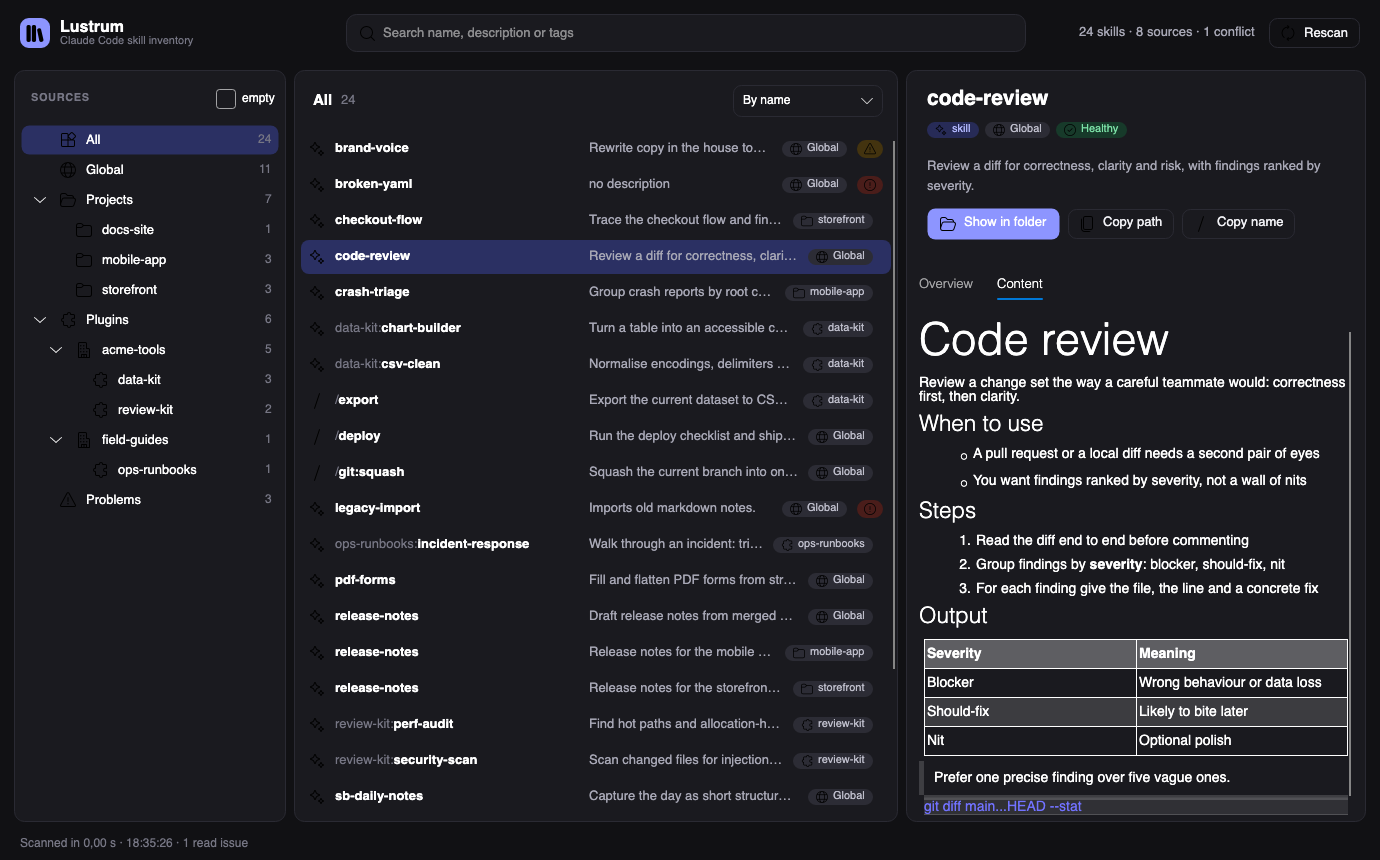
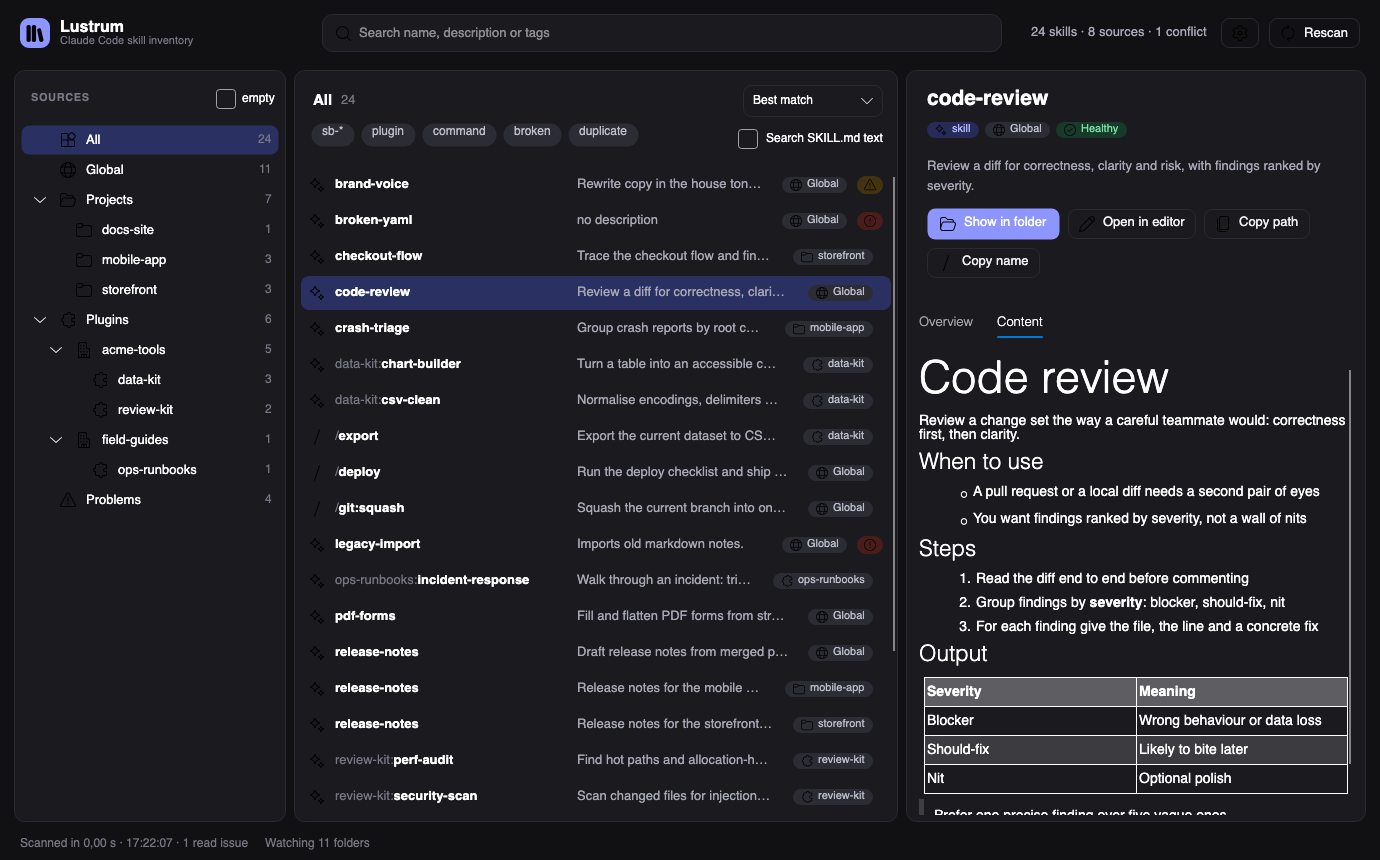
docs: describe new features and refresh screenshots

diff --git a/README.md b/README.md
@@ -1,15 +1,17 @@
 <div align="center">
 
+<img src="src/Lustrum.App/Assets/lustrum.png" alt="" width="96"/>
+
 # Lustrum
 
 **A census of every Claude Code skill on your machine.**
 
 Global skills, per-project skills, plugin skills and slash commands, in one window.<br/>
-Read-only. Nothing is written to `~/.claude`.
+Read-only towards Claude Code: nothing is written to `~/.claude`.
 
+[![CI](https://github.com/sburdenko/lustrum/actions/workflows/ci.yml/badge.svg)](https://github.com/sburdenko/lustrum/actions/workflows/ci.yml)
 ![.NET 10](https://img.shields.io/badge/.NET-10-512BD4?logo=dotnet&logoColor=white)
 ![Avalonia 11](https://img.shields.io/badge/Avalonia-11.3-8B5CF6)
-![Tests 74](https://img.shields.io/badge/tests-74%20passing-2EA043)
 
 <img src="docs/overview.png" alt="Lustrum main window: source tree, skill list and skill card" width="900"/>
 
@@ -22,15 +24,25 @@ and `npx skills list` shows the current folder plus home. Nothing answers the qu
 have a few dozen skills:
 
 - What skills do I have, and where does each one live?
-- Which ones are available in project X?
-- Where do names collide?
+- Which ones does project X actually load?
+- Where do names collide, and which copy wins?
 - Which ones are broken (no frontmatter, bad YAML, missing description)?
 
-Lustrum scans the disk once, builds an immutable snapshot and shows it in a desktop window or prints it from a CLI.
+Lustrum scans the disk, builds an immutable snapshot and shows it in a desktop window or prints it from a CLI.
+The window keeps itself up to date while you edit skills.
 
-## Quick start
+## Get it
 
-You need the [.NET 10 SDK](https://dotnet.microsoft.com/download).
+**Prebuilt.** Every `v*` tag publishes self-contained archives to
+[Releases](https://github.com/sburdenko/lustrum/releases) for `win-x64`, `osx-arm64`, `osx-x64` and `linux-x64`.
+No .NET install is needed. Each archive holds the app (`lustrum/Lustrum`) and the CLI (`lustrum/cli/lustrum`).
+The binaries are not signed, so macOS Gatekeeper blocks them until you clear the quarantine flag:
+
+```bash
+xattr -dr com.apple.quarantine lustrum
+```
+
+**From source.** You need the [.NET 10 SDK](https://dotnet.microsoft.com/download).
 
 ```bash
 git clone https://github.com/sburdenko/lustrum.git
@@ -38,33 +50,43 @@ cd lustrum
 
 dotnet run --project src/Lustrum.App                   # the window
 dotnet run --project src/Lustrum.Cli -- list           # the same data in the terminal
-dotnet test                                            # 74 tests
+dotnet test                                            # 163 tests
 ```
 
-Developed and tested on macOS. The Windows and Linux code paths (`explorer.exe`, `xdg-open`, drive-letter
-project folders) exist but have not been run.
+The window is developed on macOS. CI builds and tests on Ubuntu, macOS and Windows.
 
 ## What you get
 
 | | |
 |---|---|
-| **Source tree** | All, Global, Projects (one node per project), Plugins (marketplace, then plugin), Problems. Every node has a count. |
-| **Skill list** | One row per skill or command: name with plugin prefix, description, source, health marker. Sort by name, source or modified date. |
-| **Search** | Case-insensitive; every word must match the name, full name, description or a tag. Applies to the current source. |
-| **Skill card** | Description, health, parsed frontmatter, file path with size and modification time, sibling files, rendered `SKILL.md`. |
-| **Name conflicts** | If a name exists in more than one non-plugin source, the card lists the other locations. |
-| **Actions** | Show in file manager, copy path, copy invocation name (`/deploy`, `unity:ui`). |
-| **Themes** | Light and dark, following the OS. |
-| **Keys** | `Ctrl/Cmd+F` search, `F5` rescan, `Esc` clear search. |
+| **Source tree** | All, Global, Projects, Plugins (marketplace, then plugin), Problems. Every node has a count; disabled plugins and empty projects are dimmed. |
+| **Effective set** | Pick a project and tick **Effective set**: the list shows exactly what that project loads, marks skills that are shadowed and says what overrides what. |
+| **Skill list** | Name with plugin prefix, description, source, health marker. Sort by best match, name, source or date. |
+| **Search** | Fuzzy on names, substring on descriptions and tags, ranked by relevance. Optionally searches the text of every `SKILL.md`. |
+| **Filter chips** | One chip per own prefix (`sb-*` by default), plus `plugin`, `command`, `broken`, `duplicate`. Chips combine. |
+| **Problems** | One list of broken skills (with the YAML line and cause), over-long descriptions, projects whose folder is gone and paths that could not be read. |
+| **Skill card** | Description, health, parsed frontmatter, file path, sibling files, name conflicts, rendered `SKILL.md`. |
+| **Actions** | Show in file manager, open in editor, copy path, copy invocation name (`/deploy`, `unity:ui`). |
+| **Live updates** | File system watchers trigger a rescan half a second after skills or plugin settings change. |
+| **Settings** | Own prefixes, extra project roots, search depth, skipped folders, editor command (quote paths with spaces), theme. |
+| **Keys** | `Ctrl/Cmd+F` search · `F5` rescan · `Esc` clear search · `Ctrl/Cmd+1/2/3` focus a column · `Ctrl/Cmd+Shift+C` copy path · `Ctrl/Cmd+C` in the list copies the name |
 
 <table>
 <tr>
+<td width="50%"><img src="docs/effective.png" alt="Effective set for one project with a shadowed global skill"/></td>
+<td width="50%"><img src="docs/problems.png" alt="Problems list: broken YAML, missing frontmatter, long description, missing project"/></td>
+</tr>
+<tr>
+<td align="center"><sub>Effective set: the project copy overrides the global one</sub></td>
+<td align="center"><sub>Problems</sub></td>
+</tr>
+<tr>
 <td width="50%"><img src="docs/content.png" alt="Rendered SKILL.md in the dark theme"/></td>
-<td width="50%"><img src="docs/problems.png" alt="The Problems group: too-long description, broken YAML, no frontmatter"/></td>
+<td width="50%"><img src="docs/settings.png" alt="Settings panel and an active filter chip, dark theme"/></td>
 </tr>
 <tr>
 <td align="center"><sub>Rendered <code>SKILL.md</code>, dark theme</sub></td>
-<td align="center"><sub>Problems group</sub></td>
+<td align="center"><sub>Settings and filter chips</sub></td>
 </tr>
 </table>
 
@@ -79,25 +101,33 @@ The screenshots use a synthetic `~/.claude` tree, not a real machine.
 | Project skills and commands | `<project>/.claude/skills`, `<project>/.claude/commands` | same rules as global |
 | Plugins | the `installPath` of every entry in `~/.claude/plugins/installed_plugins.json` | `<plugin>:<name>` |
 
-**Which projects.** Lustrum merges two lists by normalised path: the keys of `projects` in `~/.claude.json`
-and the folder names in `~/.claude/projects`. Your home directory is skipped there, because its `.claude`
-is already the global source. A project whose folder no longer exists stays in the data with `Exists = false`.
-The UI hides it until you tick **empty**.
+**Which projects.** Lustrum merges three lists by normalised path:
 
-**Which plugin versions.** The registry file is authoritative. Without it, Lustrum falls back to
+1. the keys of `projects` in `~/.claude.json`;
+2. the folder names in `~/.claude/projects`;
+3. folders with a `.claude` directory under the extra roots from Settings (searched to the configured depth,
+   default 4, skipping `node_modules`, `Library`, `bin`, `obj`, `.git`).
+
+Your home directory is skipped, because its `.claude` is already the global source. A project whose folder no
+longer exists stays in the data with `Exists = false`; the tree hides it until you tick **empty**, and the
+Problems list shows it.
+
+**Which plugins.** The registry file is authoritative. Without it, Lustrum falls back to
 `~/.claude/plugins/cache/<marketplace>/<plugin>/<version>` and ignores versions that carry an `.orphaned_at` marker.
+A plugin set to `false` under `enabledPlugins` in `~/.claude/settings.json` is shown as disabled and left out of
+every effective set.
 
 **Project folder names.** `~/.claude/projects` stores each path with every non-alphanumeric character replaced
 by `-`. That mapping is lossy (`my-app`, `my_app` and `my/app` encode the same), so `ProjectPathDecoder`
 resolves a name against the real file system: at each level it only follows directories whose own encoded
-name is a prefix of the remaining string. Exact paths from `~/.claude.json` win over decoding.
-Names that cannot be resolved are shown as missing, not guessed.
+name is a prefix of the remaining string, preferring the longest match. Exact paths from `~/.claude.json` win
+over decoding. Names that cannot be resolved are shown as missing, not guessed.
 
 More on-disk details are in [docs/claude-code-layout.md](docs/claude-code-layout.md).
 
 ## Architecture
 
-Three projects, one rule: **front ends never touch the file system for scanning; everything goes through Core.**
+Three projects, one rule: **front ends never scan the file system themselves; everything goes through Core.**
 
 ```mermaid
 flowchart TB
@@ -107,32 +137,29 @@ flowchart TB
     end
 
     subgraph core["Lustrum.Core · no UI dependencies"]
-        scanner["SkillScanner"]
-        discovery["SourceDiscovery"]
-        reader["SkillReader"]
-        parser["FrontmatterParser"]
-        decoder["ProjectPathDecoder"]
-        tagger["SkillTagger<br/>ConflictDetector"]
-        index["SkillIndex<br/>SkillScope"]
+        scanner["Scanning<br/>SkillScanner · discovery · reader"]
+        parser["Parsing<br/>FrontmatterParser"]
+        index["Indexing<br/>SkillIndex · FuzzyMatcher · scopes"]
+        effective["Effective<br/>EffectiveSetBuilder"]
+        problems["Problems<br/>ProblemCollector"]
+        watching["Watching<br/>SkillTreeWatcher"]
+        settings["Settings<br/>SettingsStore"]
     end
 
     disk[("~/.claude<br/>~/.claude.json<br/>&lt;project&gt;/.claude")]
 
-    app --> scanner
-    app --> index
-    cli --> scanner
-    scanner --> discovery --> decoder
-    scanner --> reader --> parser
-    scanner --> tagger
-    discovery --> disk
-    reader --> disk
+    app --> scanner & index & effective & problems & watching & settings
+    cli --> scanner & settings
+    scanner --> parser
+    scanner --> disk
+    watching --> disk
 ```
 
 ### Scan pipeline
 
 ```mermaid
 flowchart LR
-    A["Discover sources<br/>global · plugins · projects"] --> B["Per source, in parallel<br/>skills/*/SKILL.md<br/>commands/**/*.md"]
+    A["Discover sources<br/>global · plugins · projects · roots"] --> B["Per source, in parallel<br/>skills/*/SKILL.md<br/>commands/**/*.md"]
     B --> C["Read the first 64 KB<br/>parse YAML frontmatter"]
     C --> D["Build Skill<br/>compute Health"]
     D --> E["Tag · detect<br/>name conflicts"]
@@ -142,14 +169,14 @@ flowchart LR
 - Sources are scanned with `Parallel.ForEachAsync`, one source per task.
 - Only the head of each file is read during a scan. `Skill.Body` stays `null`; the card loads it on demand
   through `SkillBodyReader` (capped at 1 MB).
-- A failure to read one file becomes a `ScanIssue` and a `ParseError` skill. It never aborts the scan.
+- A file or folder that cannot be read becomes a `ScanIssue`. It never aborts the scan.
 
 ### Data model
 
 Everything in `Lustrum.Core.Models` is an immutable `record`.
 
 ```csharp
-SkillSource(Id, Kind, DisplayName, RootPath, LastSeen, Exists)
+SkillSource(Id, Kind, DisplayName, RootPath, LastSeen, Exists, IsEnabled)
 Skill(Id, Name, FullName, Description, Kind, Source, Path, Body, Frontmatter,
       AllowedTools, Files, SizeBytes, Modified, Health, Tags)
 Conflict(Name, Skills)
@@ -161,7 +188,7 @@ ScanResult(Sources, Skills, Conflicts, Issues, ScannedAt, Duration)
   a frontmatter rename.
 - `FullName` carries the plugin prefix (`unity:ui`). Plugin skills are always prefixed, so they never
   produce a conflict.
-- `Skill.Tags` are computed: an own-prefix tag (default `sb-`), `plugin`, `command`, `broken`, `duplicate`.
+- `Skill.Tags` are computed: own-prefix tags, `plugin`, `command`, `broken`, `duplicate`.
 
 ### Health
 
@@ -179,7 +206,15 @@ Commands are checked more leniently, because Claude Code does not require frontm
 
 The frontmatter parser strips a BOM, accepts CRLF, converts leading tabs to spaces, and takes
 `allowed-tools` as either a YAML list or a comma-separated string (commas inside parentheses are kept,
-so `Bash(git:*, status)` stays one entry).
+so `Bash(git:*, status)` stays one entry). YAML errors are reported as `Line <n>: <cause>`, counted from the
+top of the file.
+
+### Effective set
+
+`EffectiveSetBuilder.Build(scan, project)` takes that project's skills, the global skills and the skills of
+enabled plugins. Within one name, a project skill wins over a global one: the winner is `Active` and lists what
+it overrides, the loser is `Shadowed` and points at the winner. Plugin skills are always prefixed, so they are
+never shadowed. Skills from other projects are not part of the set.
 
 ### Search and scopes
 
@@ -192,27 +227,62 @@ which skills it includes.
 | `KindScope(kind)` | all skills from global, project or plugin sources |
 | `SourceScope(id)` | one project or one plugin |
 | `MarketplaceScope(name)` | every plugin from one marketplace |
+| `EffectiveScope(projectId)` | that project, global skills and enabled plugins |
 | `ProblemsScope` | anything with a health problem, including `DescriptionTooLong` |
 
-`SkillIndex.Search(skills, new SkillQuery(scope, text))` applies the scope first, then the text.
+`SkillIndex.Search(skills, new SkillQuery(scope, text, requiredTags))` applies the scope and the tags, then the
+text. Every word must match. Names are scored by `FuzzyMatcher`: exact, then prefix, then word start, then
+substring, then an ordered subsequence (at least three characters, within three times the pattern length, so
+`rlsnotes` finds `release-notes`). Descriptions and tags match as substrings only. With text, results are ordered
+by score.
+
+**Search SKILL.md text** runs `SkillBodySearch` 250 ms after you stop typing: it reads each `SKILL.md` body from
+disk, keeps the ones that contain every word and appends them to the results. Bodies are not kept in memory.
+
+### Live updates
+
+`WatchTargets` picks what to watch. Skill and command folders and the plugin cache are watched recursively.
+`~/.claude/plugins`, `~/.claude/projects` and each project's `.claude` are watched without subfolders, and
+`~/.claude` itself only for `settings.json`, `skills` and `commands`, because Claude Code writes transcripts,
+history and worktrees there constantly. `~/.claude.json` is not watched for the same reason; a new project still shows
+up, because Claude Code creates its folder in `~/.claude/projects`.
+
+`SkillTreeWatcher` debounces events by 500 ms. It falls back to polling a fingerprint every 30 s when there are
+more folders than the platform handles comfortably (64 on Linux, where each watcher is an inotify instance, 256
+elsewhere) or when native watchers cannot be created. It is built off the UI thread, and the status bar says which
+mode is active.
 
 ### Threading
 
 - The scan runs on the thread pool; `MainViewModel` applies the result on the UI thread.
 - Starting a new rescan cancels the previous one, and a result from a superseded scan is dropped.
-- Failures from the scan or from launching the file manager are reported in the status bar.
+- Failures from the scan, the content search, the editor or the file manager are reported in the status bar.
 
 ### The window
 
-`MainViewModel` owns the state (`SearchText`, `SelectedNode`, `SelectedSkill`, `SelectedSort`,
-`ShowEmptySources`) and rebuilds `VisibleSkills` when any of them change.
+`MainViewModel` is split into partial files by concern: list and sorting, content search, effective set,
+problems, card, commands, settings. The view is split the same way into `SourcesPane`, `SkillListPane`,
+`SkillCardPane` and `SettingsPanel`.
 
 | Piece | Role |
 |---|---|
-| `NavTreeBuilder` | `ScanResult` to the source tree, with counts and dimmed empty projects |
-| `SkillItemViewModel` | one list row |
+| `NavTreeBuilder` | `ScanResult` to the source tree, with counts |
+| `SkillItemViewModel` | one list row, including its effective-set label |
 | `SkillCardViewModel` | the card; loads the `SKILL.md` body in the background |
-| `IShellService`, `IClipboardService` | the only places that touch the OS; faked in tests |
+| `ProblemItemViewModel` | one row in the Problems list |
+| `SettingsEditorViewModel` | the editable copy of the settings |
+| `IShellService`, `IClipboardService`, `ISettingsService`, `IThemeService` | the only places that touch the OS; faked in tests |
+
+## Settings and logs
+
+Settings live in `lustrum/settings.json` under the user's application-data folder:
+`~/Library/Application Support` on macOS, `~/.config` on Linux, `%APPDATA%` on Windows. The file is written only
+when you press **Apply and rescan**. Missing fields fall back to defaults; an unreadable file is reported and the
+defaults are used. The CLI reads the same file.
+
+Logs go to `lustrum/logs/lustrum-<date>.log` next to the settings, kept for 7 days. Each scan logs its size and
+duration, every missing source and every read issue; the first scan also logs how long the window took to show
+data. **Open logs** in the settings panel opens the folder.
 
 ## CLI
 
@@ -246,25 +316,28 @@ An unknown `--source` exits with code 2.
 ```text
 lustrum/
 ├── src/
-│   ├── Lustrum.Core/      Models/  Parsing/  Scanning/  Indexing/
-│   ├── Lustrum.App/       Views/  ViewModels/  Services/  Assets/
+│   ├── Lustrum.Core/      Models/ Parsing/ Scanning/ Indexing/ Effective/ Problems/ Settings/ Watching/
+│   ├── Lustrum.App/       Views/ ViewModels/ Services/ Assets/
 │   └── Lustrum.Cli/       list command, table renderer
 ├── tests/
-│   ├── Lustrum.Core.Tests/   scanner, parser, decoder, index
-│   └── Lustrum.App.Tests/    view models, source tree
+│   ├── Lustrum.Core.Tests/   scanner, discovery, parser, decoder, search, effective set, problems, settings, watcher
+│   └── Lustrum.App.Tests/    view models, source tree, services
 ├── docs/                  screenshots, Claude Code on-disk notes
+├── .github/workflows/     CI on three OSes, release archives on tags
 ├── Directory.Build.props  net10.0, nullable, warnings as errors
 └── lustrum.sln
 ```
 
 ## Tests
 
-74 xUnit tests with FluentAssertions. Core tests do not scan your real `~/.claude`: `FakeClaudeHome` builds a
-throw-away home directory with skills, commands, plugin registry, project folders and `~/.claude.json`, and the
-scanner runs against it. That makes the awkward cases cheap to cover: colliding project keys, malformed registry
-files, folders with dashes and dots in their names, frontmatter with a BOM and tabs, oversized frontmatter.
-The App tests drive `MainViewModel` with a fake scan function, shell and clipboard, including overlapping
-rescans and a failing file manager.
+163 xUnit tests with FluentAssertions. Core tests do not scan your real `~/.claude`: `FakeClaudeHome` builds a
+throw-away home directory with skills, commands, plugin registry, settings, project folders and `~/.claude.json`,
+and the scanner runs against it. That makes the awkward cases cheap to cover: colliding project keys, malformed
+registry files, unreadable folders, folders with dashes and dots in their names, frontmatter with a BOM and tabs,
+oversized frontmatter, native and polling file watching. The App tests drive `MainViewModel` with a fake scan
+function, shell, clipboard, settings and theme, including overlapping rescans and the effective set.
+
+Measured with coverlet: 93% of lines in `Lustrum.Core`, 81% in the view models.
 
 ```bash
 dotnet test
@@ -275,15 +348,15 @@ dotnet test
 [Avalonia 11](https://avaloniaui.net/) · [CommunityToolkit.Mvvm](https://github.com/CommunityToolkit/dotnet) ·
 [YamlDotNet](https://github.com/aaubry/YamlDotNet) · [FluentIcons.Avalonia](https://github.com/davidxuang/FluentIcons) ·
 [Markdown.Avalonia](https://github.com/whistyun/Markdown.Avalonia) · [System.CommandLine](https://github.com/dotnet/command-line-api) ·
-xUnit
+[Serilog](https://serilog.net/) · xUnit
 
 ## Limitations
 
 - Only files on disk are visible. Skills managed in claude.ai settings and skills bundled with Claude are not listed.
-- Lustrum lists what exists. It does not compute which of two same-named skills Claude Code will pick in a project.
-- Every start runs a full scan; there is no cache and no file watching. Press `F5` to rescan.
-- The own-prefix tag (`sb-`) is a default in `ScanOptions` and is not editable in the UI.
-- Search is a plain substring match, not fuzzy.
+- The effective set follows two rules: project over global for the same name, and plugins only when enabled in the
+  user-level `~/.claude/settings.json`. Project-level settings files are not read.
+- The window has only been run on macOS; on Windows and Linux only the tests run in CI.
+- Release binaries are unsigned and are plain executables, not an `.app`, installer or AppImage.
 
 ## Name
 

diff --git a/docs/claude-code-layout.md b/docs/claude-code-layout.md
@@ -45,7 +45,15 @@ Installed plugins live in a cache, several versions side by side:
 
 `~/.claude/plugins/marketplaces/` is the catalogue of what could be installed, not what is.
 
-Code: `SourceDiscovery.InstalledPlugins`, `SourceDiscovery.CachedPlugins` (fallback when the registry is missing).
+`~/.claude/settings.json` can switch plugins off:
+
+```json
+{ "enabledPlugins": { "<plugin>@<marketplace>": false } }
+```
+
+Only an explicit `false` counts as disabled; a plugin that is not listed is treated as enabled.
+
+Code: `PluginDiscovery` (registry, cache fallback, `enabledPlugins`).
 
 ## Projects
 
@@ -70,4 +78,4 @@ whose re-encoded name matches.
 The home directory also appears as a project. Its `.claude` folder is the global source, so it is skipped
 to avoid listing every global skill twice.
 
-Code: `ProjectPathDecoder`, `SourceDiscovery.ProjectSources`.
+Code: `ProjectPathDecoder`, `ProjectDiscovery`.
